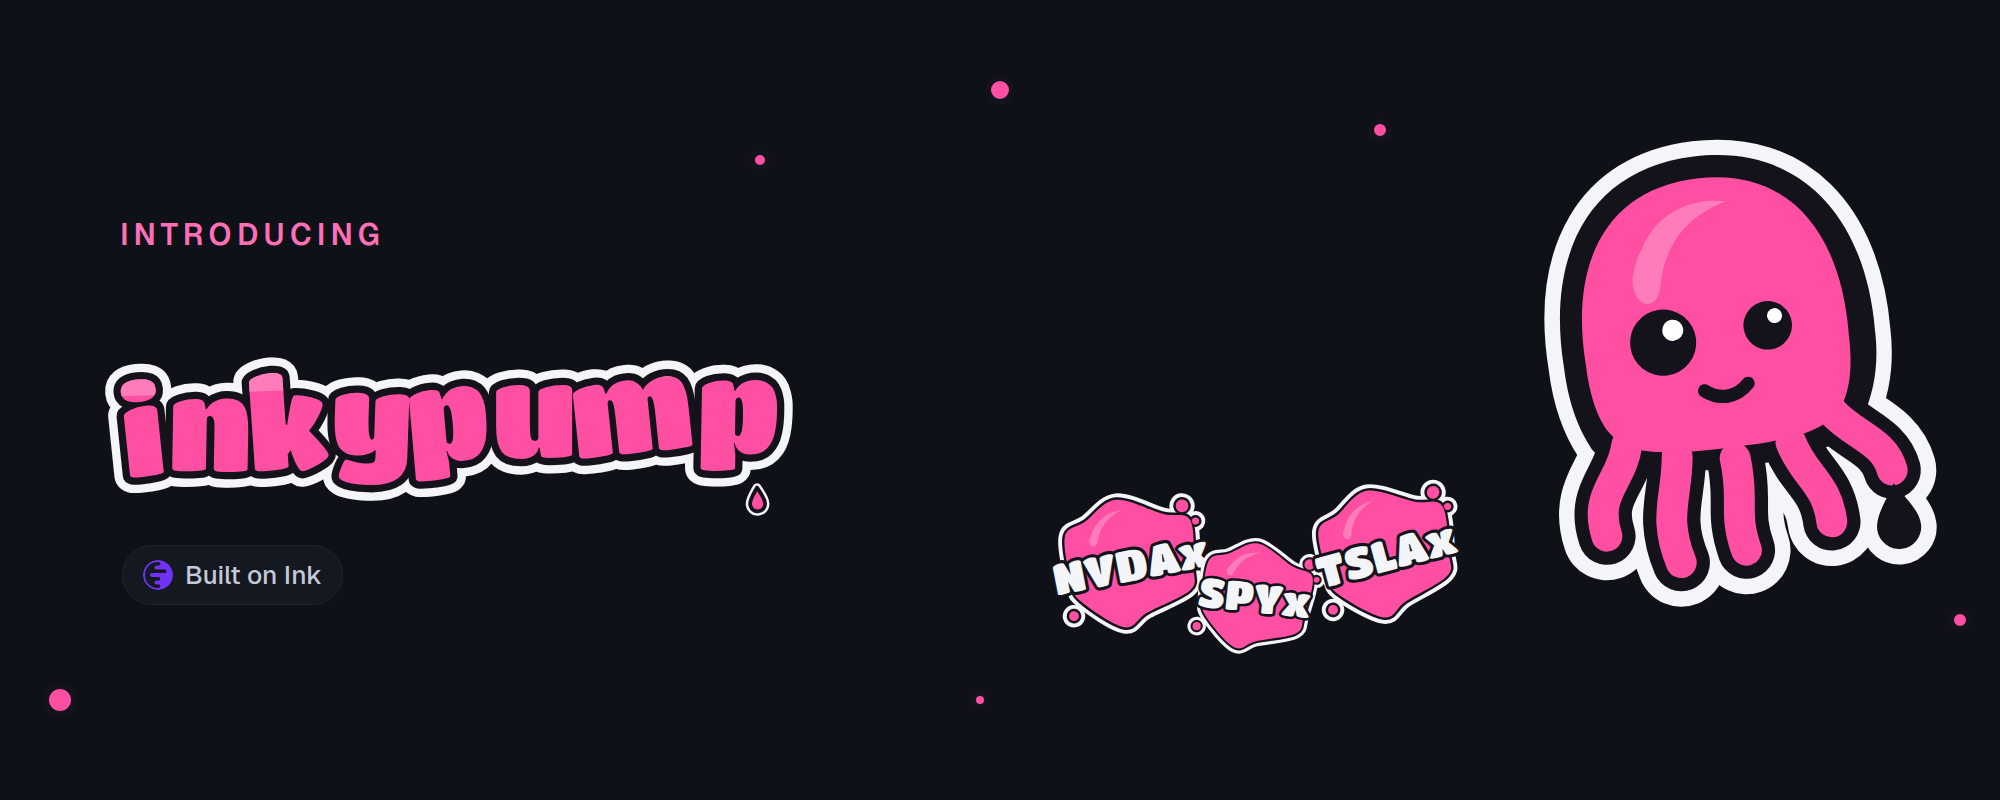
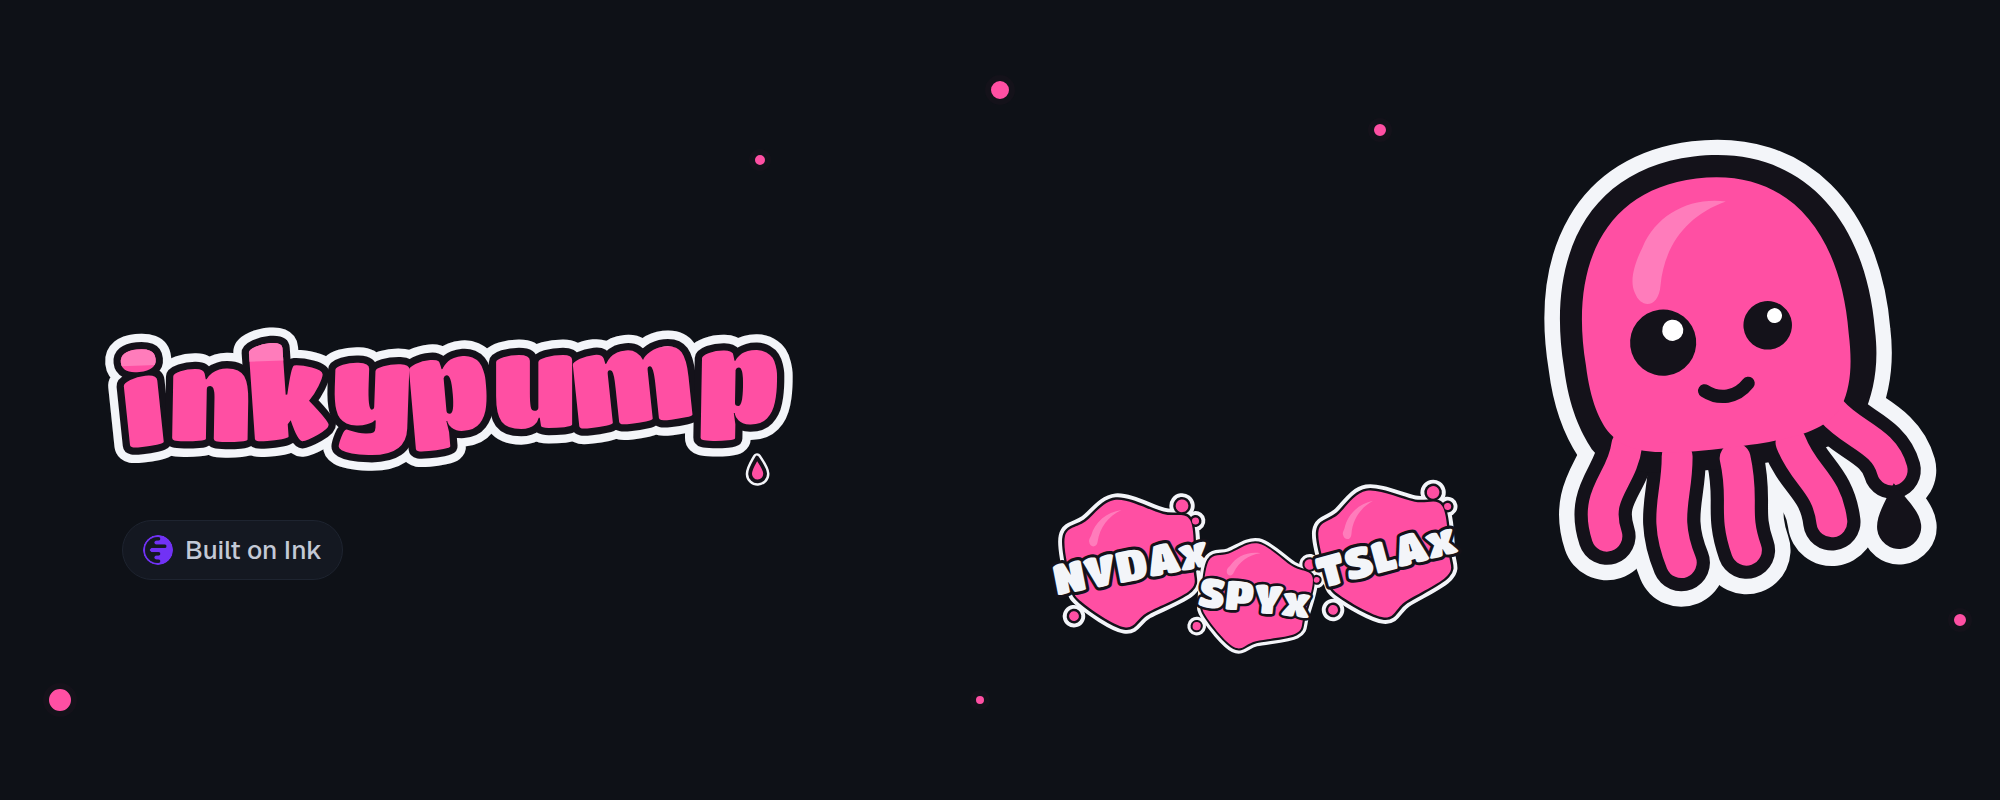
Replica: article cover without the eyebrow text
Claude-Session: https://claude.ai/code/session_018647HdkJmRvZZjLKjj8BXD

Changed region(s): [[0.031, 0.4062, 0.403, 0.6562], [0.062, 0.6562, 0.155, 0.75], [0.062, 0.2812, 0.186, 0.3125]]

diff --git a/web/replica/article-cover-render.js b/web/replica/article-cover-render.js
@@ -9,9 +9,8 @@ const { chromium } = require('playwright'); const fs=require('fs'); const wordma
  const p=await b.newPage({viewport:{width:2000,height:800},deviceScaleFactor:1});
  const abs=(x,y,inner,extra='')=>`<div style="position:absolute;left:${x}px;top:${y}px;${extra}">${inner}</div>`;
  await p.setContent(`<!doctype html><html><head>${font}<style>html,body{margin:0;background:#0e1117;width:2000px;height:800px;overflow:hidden;font-family:Geist}</style></head><body><div style="position:relative;width:2000px;height:800px;background:#0e1117;color:#f3f5f9">
-  ${abs(120,215,`<div style="font:600 30px Geist;letter-spacing:.18em;color:#ff6fb5">INTRODUCING</div>`)}
-  ${abs(100,265,wordmark(760))}
-  ${abs(122,545,`<div style="display:inline-flex;align-items:center;gap:12px;font:500 26px Geist;color:#c3c9d6;padding:12px 20px;border-radius:999px;border:1px solid #1e2430;background:#141821"><img src="${ink}" style="width:30px;height:30px;border-radius:50%">Built on Ink</div>`)}
+  ${abs(100,235,wordmark(760))}
+  ${abs(122,520,`<div style="display:inline-flex;align-items:center;gap:12px;font:500 26px Geist;color:#c3c9d6;padding:12px 20px;border-radius:999px;border:1px solid #1e2430;background:#141821"><img src="${ink}" style="width:30px;height:30px;border-radius:50%">Built on Ink</div>`)}
   ${abs(1040,470,blot('NVDAx',180,-8,62))}${abs(1180,520,blot('SPYx',150,9,70))}${abs(1295,460,blot('TSLAx',180,-12,62))}
   ${abs(1420,80,sz(logo,600))}
   <svg style="position:absolute;left:0;top:0" width="2000" height="800" viewBox="0 0 2000 800" fill="#ff4fa3" stroke="#14121a" stroke-width="6"><circle cx="1000" cy="90" r="12"/><circle cx="1960" cy="620" r="9"/><circle cx="980" cy="700" r="7"/><circle cx="60" cy="700" r="14"/><circle cx="760" cy="160" r="8"/><circle cx="1380" cy="130" r="9"/></svg>
